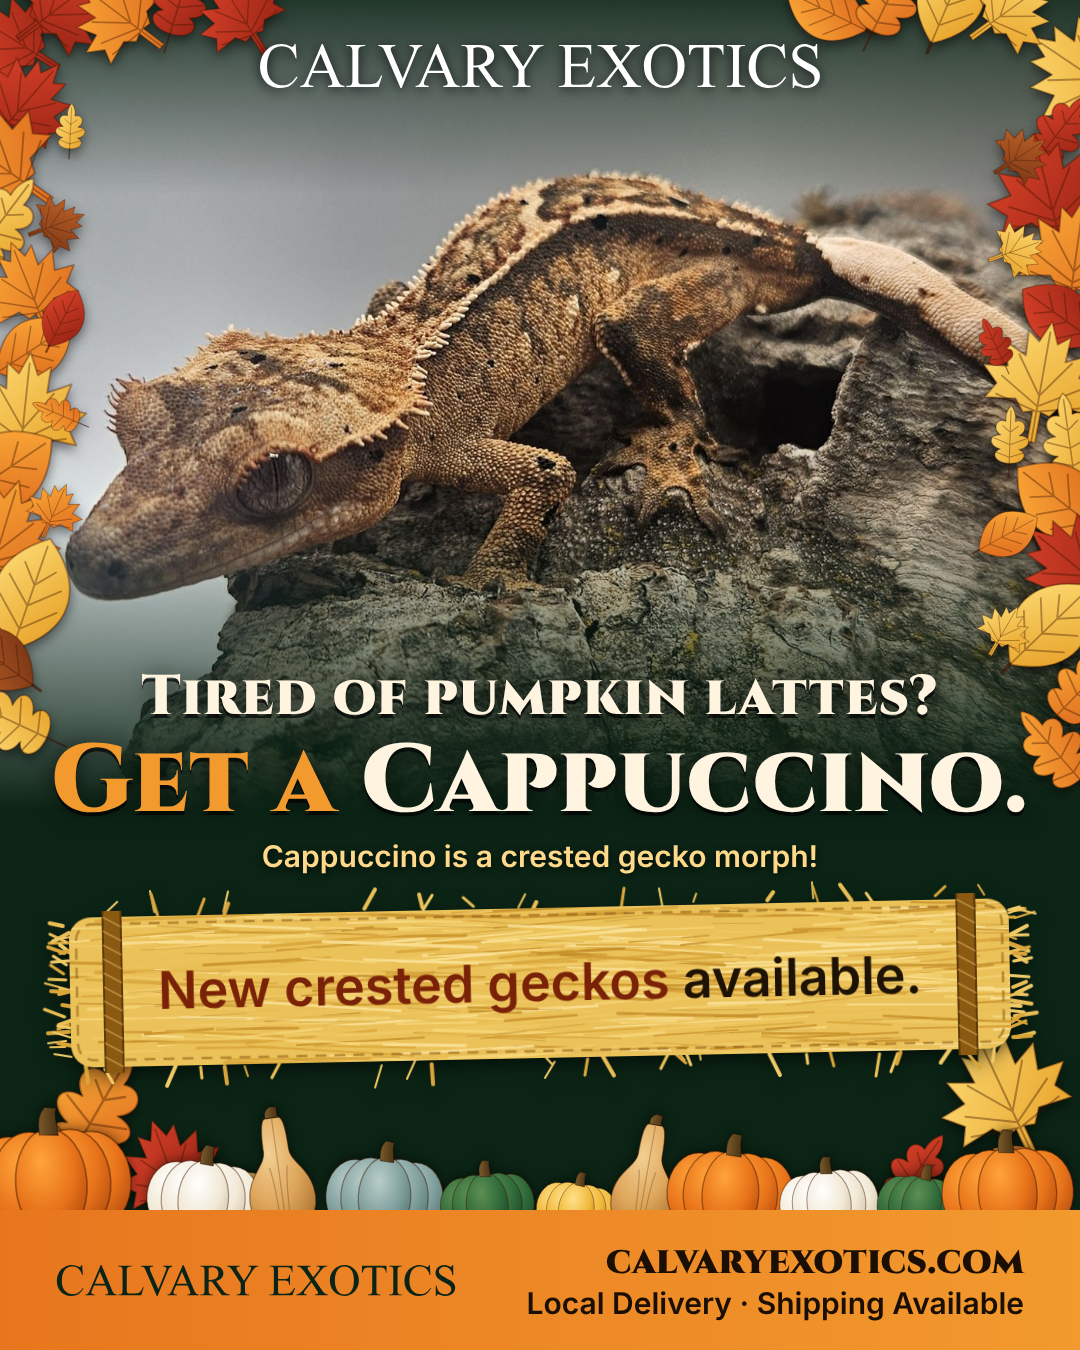
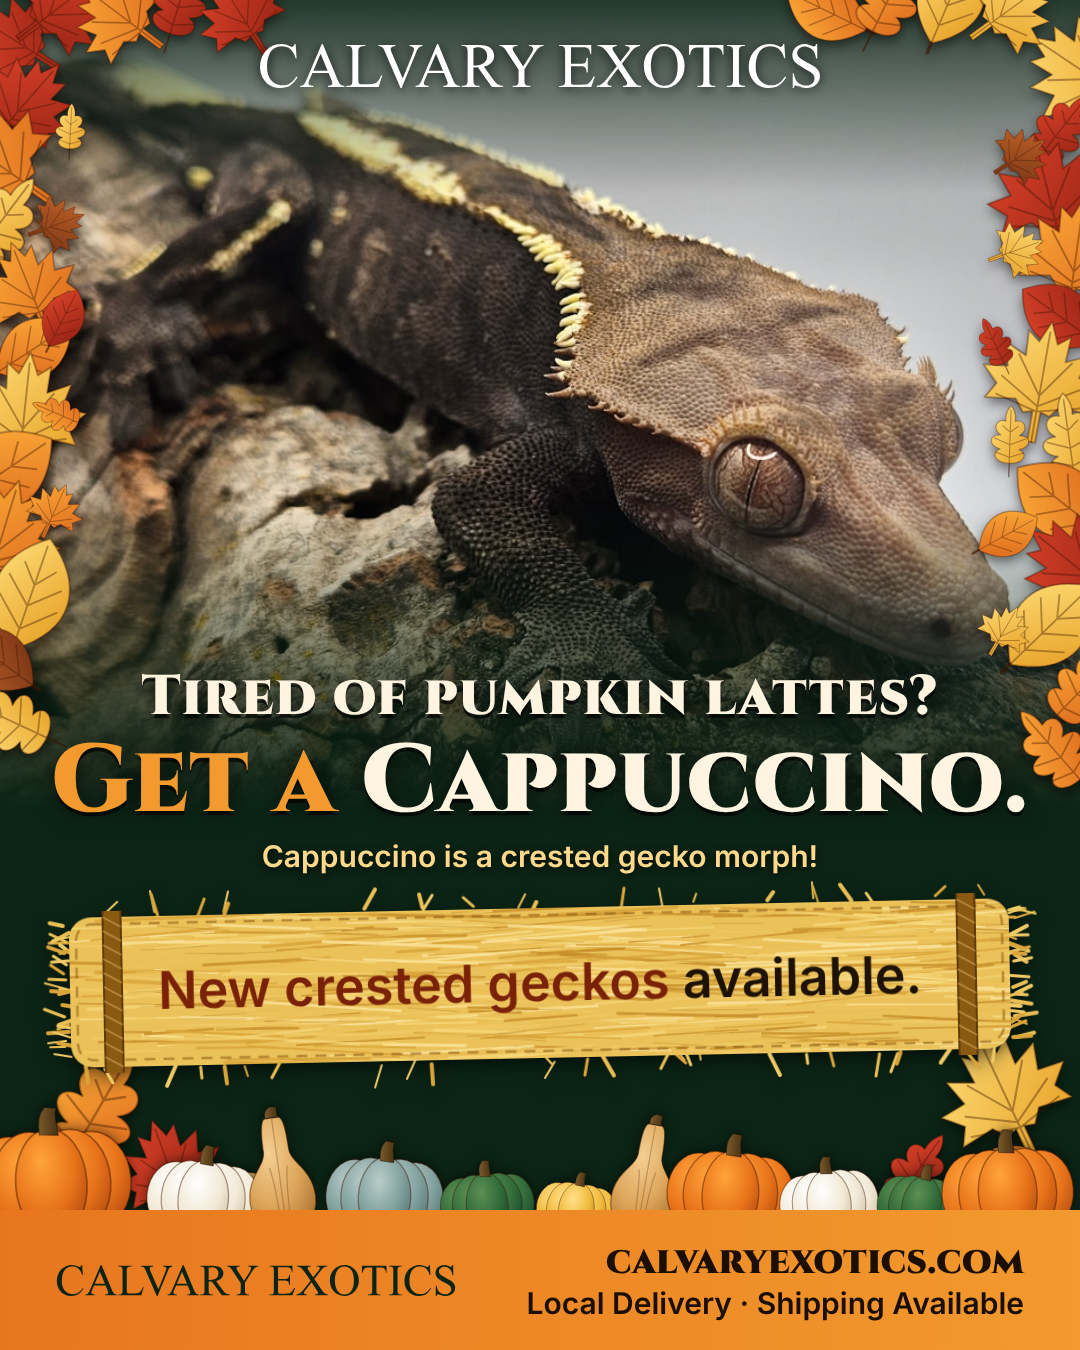
Ad 2: use real cappuccino morph photo
Claude-Session: https://claude.ai/code/session_01MTEoVmbNfKHYX384wUKzCJ

diff --git a/marketing/facebook-ad-2-story.html b/marketing/facebook-ad-2-story.html
@@ -6,7 +6,7 @@
 *{margin:0;box-sizing:border-box}
 :root{--pumpkin:#F29A2E;--cream:#FFF4E0;--deep:#0B2415;--gold:#E3B94F}
 body{width:1080px;height:1920px;background:var(--deep);font-family:Inter,sans-serif;color:var(--cream);position:relative;overflow:hidden}
-.photo{position:absolute;left:0;top:340px;width:1080px;height:780px;background:url(../images/tiger_1.jpg) 50% 90%/cover}
+.photo{position:absolute;left:0;top:340px;width:1080px;height:780px;background:url(../images/cappuccino_1.jpg) 50% 52%/cover}
 .photo::after{content:"";position:absolute;inset:0;background:linear-gradient(180deg,rgba(11,36,21,.85) 0,rgba(11,36,21,0) 24%,rgba(11,36,21,0) 62%,var(--deep) 100%)}
 .logo{position:absolute;top:270px;left:50%;transform:translateX(-50%);width:560px;z-index:3;filter:drop-shadow(0 2px 6px rgba(0,0,0,.8))}
 .leaves{position:absolute;left:0;top:0;z-index:2}

diff --git a/marketing/facebook-ad-2.html b/marketing/facebook-ad-2.html
@@ -6,7 +6,7 @@
 *{margin:0;box-sizing:border-box}
 :root{--pumpkin:#F29A2E;--cream:#FFF4E0;--deep:#0B2415;--gold:#E3B94F}
 body{width:1080px;height:1350px;background:var(--deep);font-family:Inter,sans-serif;color:var(--cream);position:relative;overflow:hidden}
-.photo{position:absolute;left:0;top:0px;width:1080px;height:810px;background:url(../images/tiger_1.jpg) 50% 45%/cover}
+.photo{position:absolute;left:0;top:0px;width:1080px;height:810px;background:url(../images/cappuccino_1.jpg) 50% 52%/cover}
 .photo::after{content:"";position:absolute;inset:0;background:linear-gradient(180deg,rgba(11,36,21,.85) 0,rgba(11,36,21,0) 24%,rgba(11,36,21,0) 62%,var(--deep) 100%)}
 .logo{position:absolute;top:44px;left:50%;transform:translateX(-50%);width:560px;z-index:3;filter:drop-shadow(0 2px 6px rgba(0,0,0,.8))}
 .leaves{position:absolute;left:0;top:0;z-index:2}

diff --git a/marketing/build_ads.py b/marketing/build_ads.py
@@ -136,7 +136,7 @@ ADS = {
     'facebook-ad': dict(H=1350, PH=810, ctaTop=1210, base=1236, logoY=44, panelTop=655, side_max=760, hayMt=18, img='harley_1.jpg', pos='60% 40%', excl=[(80, 420, 120, 440)],
                         eyebrow='Welcoming the next generation of keepers', h1='Have <span>Morph Fun</span><br>This Fall!', h1fs=100, cap='',
                         hay='We have <b>new amazing geckos</b> available.', hayFs=42),
-    'facebook-ad-2': dict(H=1350, PH=810, ctaTop=1210, base=1236, logoY=44, panelTop=655, side_max=760, hayMt=34, img='tiger_1.jpg', pos='50% 45%', excl=[(60, 320, 440, 640)],
+    'facebook-ad-2': dict(H=1350, PH=810, ctaTop=1210, base=1236, logoY=44, panelTop=655, side_max=760, hayMt=34, img='cappuccino_1.jpg', pos='50% 52%', excl=[(60, 320, 440, 640)],
                           eyebrow='', h1='<small>Tired of pumpkin lattes?</small>Get a <span>Cappuccino.</span>', h1fs=96, cap='Cappuccino is a crested gecko morph!',
                           hay='<b>New crested geckos</b> available.', hayFs=52),
 }
@@ -145,7 +145,6 @@ for k, v in list(ADS.items()):
     s = dict(v)
     s.update(H=1920, PT=340, PH=780, ctaTop=1440, base=1476, logoY=270, panelTop=880, side_max=900, hayMt=34)
     s['excl'] = [(60, 420, 420, 700)] if k == 'facebook-ad' else [(60, 340, 560, 800)]
-    if k == 'facebook-ad-2': s['pos'] = '50% 90%'
     ADS[k + '-story'] = s
 
 

diff --git a/marketing/facebook-ad-2-copy.md b/marketing/facebook-ad-2-copy.md
@@ -5,7 +5,7 @@ Rebuild both with `python3 marketing/build_ads.py`.
 
 ## Primary text
 Tired of pumpkin lattes? ☕🍂
-Get a cappuccino instead! (Cappuccino is a crested gecko morph, with rich coffee tones.) 🦎
+Get a cappuccino instead! (Cappuccino is a crested gecko morph, with rich coffee tones, like this one.) 🦎
 
 We have new crested geckos available, captive-bred and raised with care in Tyler, TX. Crested geckos are a great first reptile for a new generation of keepers, and we love helping new owners get started.
 
@@ -22,5 +22,5 @@ Learn More → https://www.calvaryexotics.com/listings.html
 
 ## Notes
 - The image says "Cappuccino is a crested gecko morph!" so people outside the hobby get the joke.
-- The photo is a warm brown crested gecko from our listings, not a labeled cappuccino morph. Only say "this is a cappuccino" in the post when you're showing an actual one. To feature one, change `img` for `facebook-ad-2` in `build_ads.py` and rebuild.
+- The photo is a real cappuccino morph crested gecko (`images/cappuccino_1.jpg`), so the headline and the caption match the animal shown.
 - See the Meta live-animal policy checklist in `facebook-ad-copy.md`; the same rules apply here.
